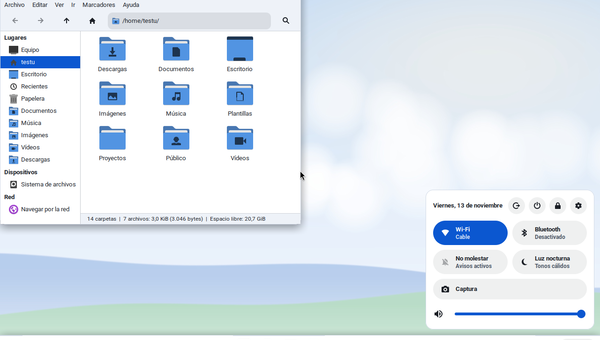
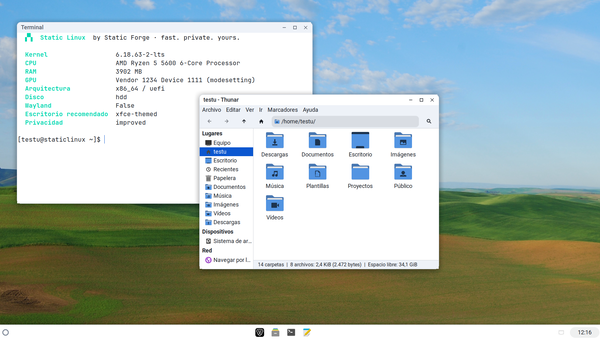
staticlinux-base: instala las plantillas tiling/ (sin ellas cambiar de tema fallaba con i3, sway, bspwm, waybar, rofi o mako); vistas previas por escritorio en Bienvenida; tarjetas de Aero y Nube en el instalador

diff --git a/sl-welcome/src/pages/appearance.py b/sl-welcome/src/pages/appearance.py
@@ -7,6 +7,7 @@ $HOME and talks to the running session), so this page runs it directly.
 
 from __future__ import annotations
 
+import os
 import subprocess
 import threading
 from pathlib import Path
@@ -84,6 +85,21 @@ def _current_theme() -> str:
         return "ambar"
 
 
+# XDG_CURRENT_DESKTOP -> previews/<name>.jpg (the theme seen on this desktop)
+DESKTOP_PREVIEW = {"xfce": "xfce", "kde": "kde", "gnome": "gnome", "x-cinnamon": "cinnamon",
+                   "cinnamon": "cinnamon", "hyprland": "hyprland", "openbox": "openbox",
+                   "i3": "i3", "bspwm": "bspwm", "sway": "sway"}
+
+
+def _preview(theme_dir: Path) -> Path:
+    """The theme on the running desktop if there is a capture of it, else the XFCE one."""
+    for part in os.environ.get("XDG_CURRENT_DESKTOP", "").lower().split(":"):
+        name = DESKTOP_PREVIEW.get(part)
+        if name and (theme_dir / "previews" / f"{name}.jpg").exists():
+            return theme_dir / "previews" / f"{name}.jpg"
+    return theme_dir / "preview.jpg"
+
+
 def build(toast_overlay: Adw.ToastOverlay) -> Gtk.Widget:
     page = Adw.PreferencesPage()
     group = Adw.PreferencesGroup(
@@ -100,7 +116,7 @@ def build(toast_overlay: Adw.ToastOverlay) -> Gtk.Widget:
         style = _(STYLE_LABEL.get(theme.get("style", "minimal"), ""))
         row = Adw.ActionRow(title=_(theme.get("name", theme["id"])),
                             subtitle=f"{mode} · {style}" + (f" · {_(theme['comment'])}" if theme.get("comment") else ""))
-        preview = theme["dir"] / "preview.jpg"
+        preview = _preview(theme["dir"])
         if preview.exists():
             pic = Gtk.Picture.new_for_filename(str(preview))
             pic.set_size_request(128, 72)
